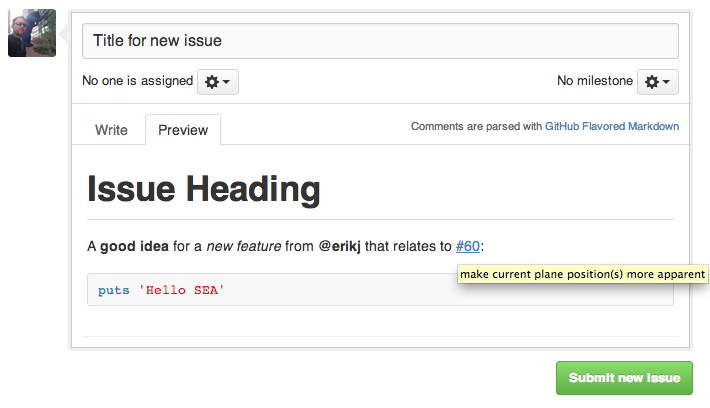
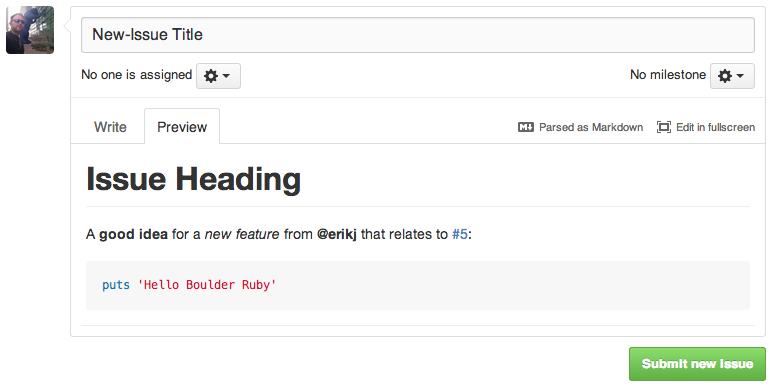
update issue-example content: s/SEA/Boulder Ruby/; #5

diff --git a/gitgithubncareol/slides/issues.md b/gitgithubncareol/slides/issues.md
@@ -66,7 +66,7 @@ https://github.com/blog/1375-task-lists-in-gfm-issues-pulls-comments
 A **good idea** for a *new feature* from @erikj that relates to #60:
 
 ```ruby
-puts 'Hello SEA'
+puts 'Hello Boulder Ruby'
 ```
 </pre>
 
